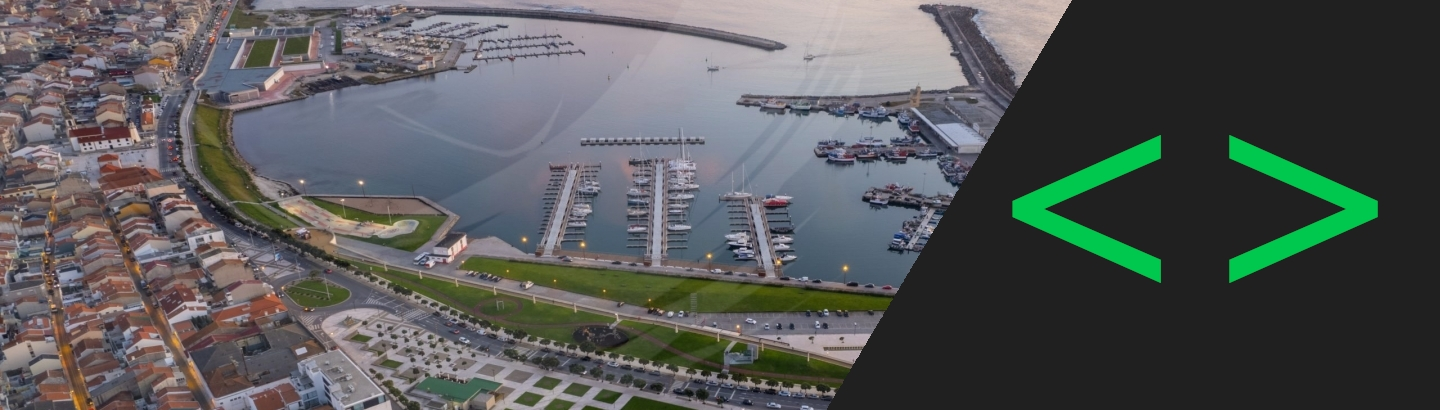
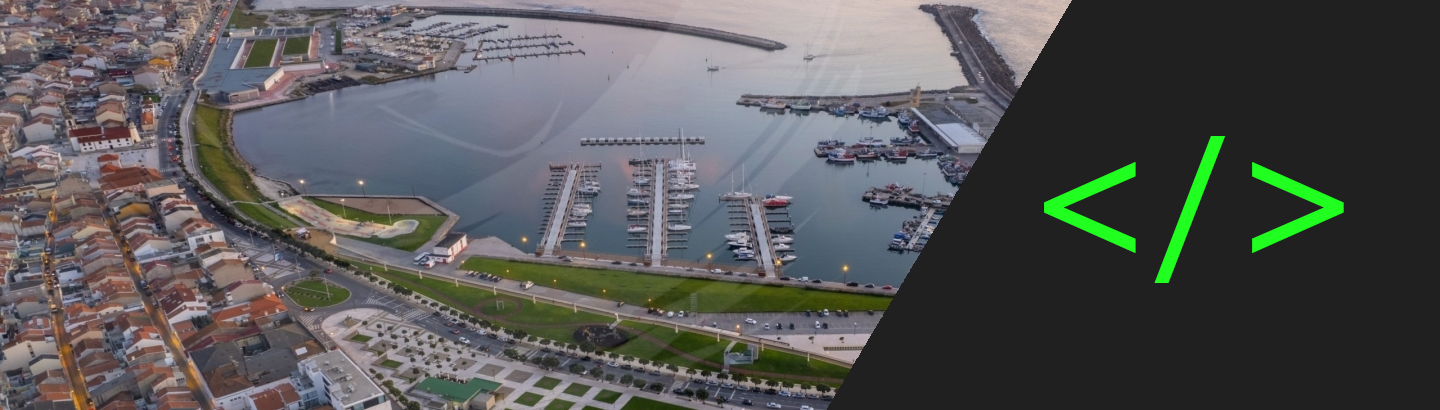
Update event date

Changed region(s): [[0.6875, 0.322, 0.9688, 0.7024]]

diff --git a/pages/povoa.md b/pages/povoa.md
@@ -1,7 +1,7 @@
 ---
 layout: page
 title: Developers Meetup - Póvoa de Varzim
-exerpt: Dia 5 de Setembro às 6pm será o primeiro encontro mensal de desenvolvedores na Póvoa de Varzim
+exerpt: Dia 9 de Setembro às 6pm será o primeiro encontro mensal de desenvolvedores na Póvoa de Varzim
 permalink: /povoa/
 city: Póvoa de Varzim, Portugal 🇵🇹
 ---
@@ -16,7 +16,7 @@ city: Póvoa de Varzim, Portugal 🇵🇹
 
 Desenvolvedores de Software da Póvoa, unite!
 
-Dia **5 de Setembro** às **6pm** será o primeiro encontro mensal de desenvolvedores aqui na Póvoa. O objetivo é ter boas conversas e conhecer a malta com interesses em comum.
+Dia **9 de Setembro** às **6pm** será o primeiro encontro mensal de desenvolvedores aqui na Póvoa. O objetivo é ter boas conversas e conhecer a malta com interesses em comum.
 
 Por favor [confirme sua presença!](https://docs.google.com/forms/d/e/1FAIpQLScrrpjzuRFqggGD1ZF_X9dSSROYmG7pr2TstY3OKpUa2gIWtg/viewform?usp=header)
 
@@ -32,7 +32,7 @@ Eu estou organizando o evento e trabalho com compiladores e programação funcio
 
 If you don't speak Portuguese, fear not.
 
-The **5th of September** at **6pm** we shall have the first monthly developers meetup here in Póvoa de Varzim.
+The **9th of September** at **6pm** we shall have the first monthly developers meetup here in Póvoa de Varzim.
 The goal is to have good chats and meet people with common interests.
 
 [Please RSVP!](https://docs.google.com/forms/d/e/1FAIpQLScrrpjzuRFqggGD1ZF_X9dSSROYmG7pr2TstY3OKpUa2gIWtg/viewform?usp=header)
